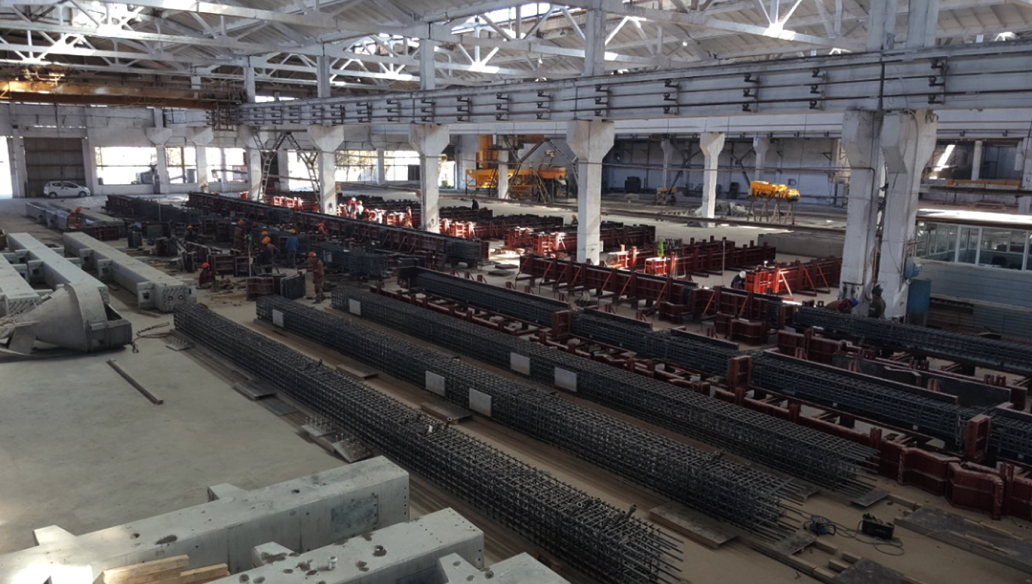
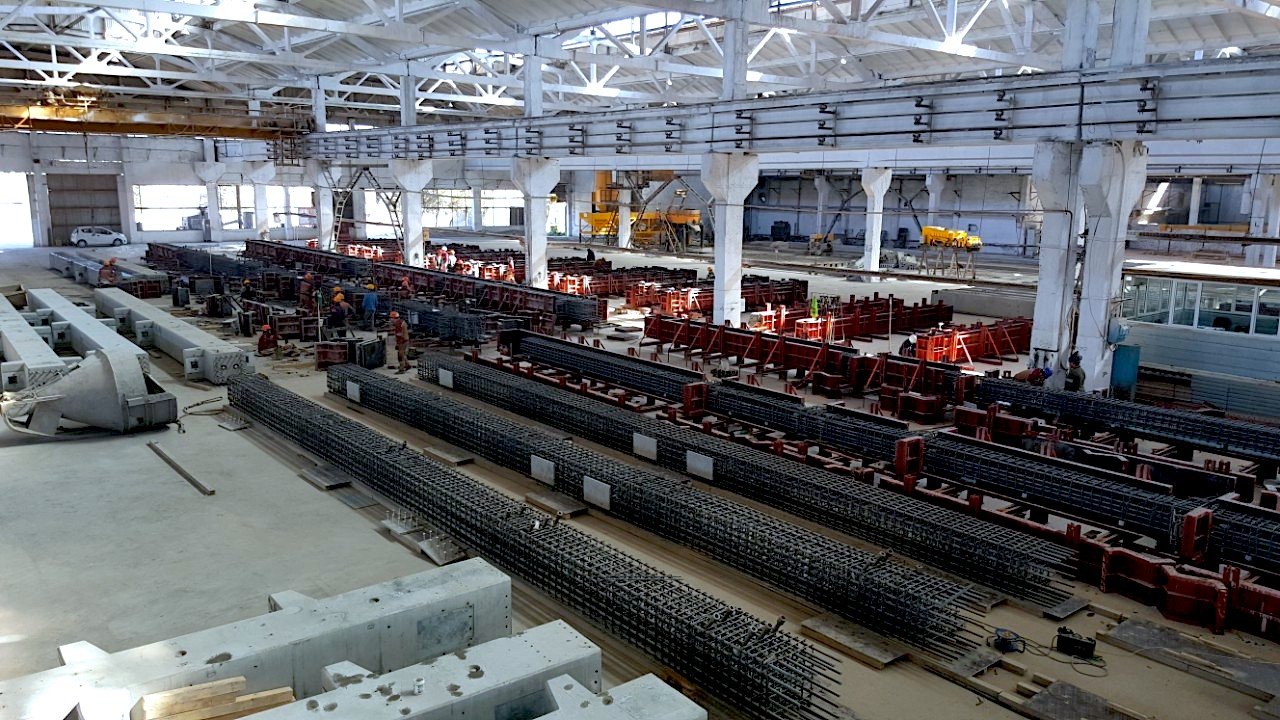
euro 포트폴리오 이미지 교체 작업중

diff --git a/project/euro/page/portfolio.html b/project/euro/page/portfolio.html
@@ -142,7 +142,10 @@
         <div class="portfolioItem is_switchTabTarget" data-switch="portfolio" data-switchkey="inner">
             <div class="portfolioItemImgList swiper-container">
                 <a class="swiper-wrapper" href="portfolioDetail_1.html">
-                    <div class="portfolioItemImg swiper-slide" style="background-image: url(../img/portfolio1_1.jpg)"></div>
+                    <div class="portfolioItemImg swiper-slide" style="background-image: url(../img/portfolio1_1.png)"></div>
+                    <div class="portfolioItemImg swiper-slide" style="background-image: url(../img/portfolio1_2.png)"></div>
+                    <div class="portfolioItemImg swiper-slide" style="background-image: url(../img/portfolio1_3.png)"></div>
+                    <div class="portfolioItemImg swiper-slide" style="background-image: url(../img/portfolio1_4.jpg)"></div>
                 </a>
                 <div class="swiper-button-prev"></div>
                 <div class="swiper-button-next"></div>
@@ -167,6 +170,12 @@
                     <div class="portfolioItemImg swiper-slide" style="background-image: url(../img/portfolio2_10.jpg)"></div>
                     <div class="portfolioItemImg swiper-slide" style="background-image: url(../img/portfolio2_11.jpg)"></div>
                     <div class="portfolioItemImg swiper-slide" style="background-image: url(../img/portfolio2_12.jpg)"></div>
+                    <div class="portfolioItemImg swiper-slide" style="background-image: url(../img/portfolio2_13.jpg)"></div>
+                    <div class="portfolioItemImg swiper-slide" style="background-image: url(../img/portfolio2_14.jpg)"></div>
+                    <div class="portfolioItemImg swiper-slide" style="background-image: url(../img/portfolio2_15.jpg)"></div>
+                    <div class="portfolioItemImg swiper-slide" style="background-image: url(../img/portfolio2_16.jpg)"></div>
+                    <div class="portfolioItemImg swiper-slide" style="background-image: url(../img/portfolio2_17.jpg)"></div>
+                    <div class="portfolioItemImg swiper-slide" style="background-image: url(../img/portfolio2_18.jpg)"></div>
                 </a>
                 <div class="swiper-button-prev"></div>
                 <div class="swiper-button-next"></div>
@@ -180,10 +189,21 @@
             <div class="portfolioItemImgList swiper-container">
                 <a class="swiper-wrapper" href="portfolioDetail_3.html">
                     <div class="portfolioItemImg swiper-slide" style="background-image: url(../img/portfolio3_1.jpg)"></div>
-                    <div class="portfolioItemImg swiper-slide" style="background-image: url(../img/portfolio3_2.jpg)"></div>
+                    <div class="portfolioItemImg swiper-slide" style="background-image: url(../img/portfolio3_2.png)"></div>
                     <div class="portfolioItemImg swiper-slide" style="background-image: url(../img/portfolio3_3.jpg)"></div>
                     <div class="portfolioItemImg swiper-slide" style="background-image: url(../img/portfolio3_4.jpg)"></div>
                     <div class="portfolioItemImg swiper-slide" style="background-image: url(../img/portfolio3_5.jpg)"></div>
+                    <div class="portfolioItemImg swiper-slide" style="background-image: url(../img/portfolio3_6.jpg)"></div>
+                    <div class="portfolioItemImg swiper-slide" style="background-image: url(../img/portfolio3_7.jpg)"></div>
+                    <div class="portfolioItemImg swiper-slide" style="background-image: url(../img/portfolio3_8.jpg)"></div>
+                    <div class="portfolioItemImg swiper-slide" style="background-image: url(../img/portfolio3_9.jpg)"></div>
+                    <div class="portfolioItemImg swiper-slide" style="background-image: url(../img/portfolio3_11.jpg)"></div>
+                    <div class="portfolioItemImg swiper-slide" style="background-image: url(../img/portfolio3_12.jpg)"></div>
+                    <div class="portfolioItemImg swiper-slide" style="background-image: url(../img/portfolio3_13.jpg)"></div>
+                    <div class="portfolioItemImg swiper-slide" style="background-image: url(../img/portfolio3_14.jpg)"></div>
+                    <div class="portfolioItemImg swiper-slide" style="background-image: url(../img/portfolio3_15.jpg)"></div>
+                    <div class="portfolioItemImg swiper-slide" style="background-image: url(../img/portfolio3_16.jpg)"></div>
+                    <div class="portfolioItemImg swiper-slide" style="background-image: url(../img/portfolio3_17.jpg)"></div>
                 </a>
                 <div class="swiper-button-prev"></div>
                 <div class="swiper-button-next"></div>
@@ -201,13 +221,20 @@
                     <div class="portfolioItemImg swiper-slide" style="background-image: url(../img/portfolio4_2.jpg)"></div>
                     <div class="portfolioItemImg swiper-slide" style="background-image: url(../img/portfolio4_3.jpg)"></div>
                     <div class="portfolioItemImg swiper-slide" style="background-image: url(../img/portfolio4_4.jpg)"></div>
-                    <div class="portfolioItemImg swiper-slide" style="background-image: url(../img/portfolio4_5.jpg)"></div>
-                    <div class="portfolioItemImg swiper-slide" style="background-image: url(../img/portfolio4_6.jpg)"></div>
+                    <div class="portfolioItemImg swiper-slide" style="background-image: url(../img/portfolio4_5.png)"></div>
+                    <div class="portfolioItemImg swiper-slide" style="background-image: url(../img/portfolio4_6.png)"></div>
                     <div class="portfolioItemImg swiper-slide" style="background-image: url(../img/portfolio4_7.jpg)"></div>
                     <div class="portfolioItemImg swiper-slide" style="background-image: url(../img/portfolio4_8.jpg)"></div>
                     <div class="portfolioItemImg swiper-slide" style="background-image: url(../img/portfolio4_9.jpg)"></div>
-                    <div class="portfolioItemImg swiper-slide" style="background-image: url(../img/portfolio4_10.jpg)"></div>
+                    <div class="portfolioItemImg swiper-slide" style="background-image: url(../img/portfolio4_10.png)"></div>
                     <div class="portfolioItemImg swiper-slide" style="background-image: url(../img/portfolio4_11.jpg)"></div>
+                    <div class="portfolioItemImg swiper-slide" style="background-image: url(../img/portfolio4_12.png)"></div>
+                    <div class="portfolioItemImg swiper-slide" style="background-image: url(../img/portfolio4_13.png)"></div>
+                    <div class="portfolioItemImg swiper-slide" style="background-image: url(../img/portfolio4_14.jpg)"></div>
+                    <div class="portfolioItemImg swiper-slide" style="background-image: url(../img/portfolio4_15.png)"></div>
+                    <div class="portfolioItemImg swiper-slide" style="background-image: url(../img/portfolio4_16.png)"></div>
+                    <div class="portfolioItemImg swiper-slide" style="background-image: url(../img/portfolio4_17.png)"></div>
+                    <div class="portfolioItemImg swiper-slide" style="background-image: url(../img/portfolio4_18.jpg)"></div>
                 </a>
                 <div class="swiper-button-prev"></div>
                 <div class="swiper-button-next"></div>

diff --git a/project/euro/page/portfolioDetail_4.html b/project/euro/page/portfolioDetail_4.html
@@ -147,13 +147,20 @@
             <button class="portfolioSubItem swiper-slide" type="button" style="background-image: url(../img/portfolio4_2.jpg)"></button>
             <button class="portfolioSubItem swiper-slide" type="button" style="background-image: url(../img/portfolio4_3.jpg)"></button>
             <button class="portfolioSubItem swiper-slide" type="button" style="background-image: url(../img/portfolio4_4.jpg)"></button>
-            <button class="portfolioSubItem swiper-slide" type="button" style="background-image: url(../img/portfolio4_5.jpg)"></button>
-            <button class="portfolioSubItem swiper-slide" type="button" style="background-image: url(../img/portfolio4_6.jpg)"></button>
+            <button class="portfolioSubItem swiper-slide" type="button" style="background-image: url(../img/portfolio4_5.png)"></button>
+            <button class="portfolioSubItem swiper-slide" type="button" style="background-image: url(../img/portfolio4_6.png)"></button>
             <button class="portfolioSubItem swiper-slide" type="button" style="background-image: url(../img/portfolio4_7.jpg)"></button>
             <button class="portfolioSubItem swiper-slide" type="button" style="background-image: url(../img/portfolio4_8.jpg)"></button>
             <button class="portfolioSubItem swiper-slide" type="button" style="background-image: url(../img/portfolio4_9.jpg)"></button>
-            <button class="portfolioSubItem swiper-slide" type="button" style="background-image: url(../img/portfolio4_10.jpg)"></button>
+            <button class="portfolioSubItem swiper-slide" type="button" style="background-image: url(../img/portfolio4_10.png)"></button>
             <button class="portfolioSubItem swiper-slide" type="button" style="background-image: url(../img/portfolio4_11.jpg)"></button>
+            <button class="portfolioSubItem swiper-slide" type="button" style="background-image: url(../img/portfolio4_12.png)"></button>
+            <button class="portfolioSubItem swiper-slide" type="button" style="background-image: url(../img/portfolio4_13.png)"></button>
+            <button class="portfolioSubItem swiper-slide" type="button" style="background-image: url(../img/portfolio4_14.jpg)"></button>
+            <button class="portfolioSubItem swiper-slide" type="button" style="background-image: url(../img/portfolio4_15.png)"></button>
+            <button class="portfolioSubItem swiper-slide" type="button" style="background-image: url(../img/portfolio4_16.png)"></button>
+            <button class="portfolioSubItem swiper-slide" type="button" style="background-image: url(../img/portfolio4_17.png)"></button>
+            <button class="portfolioSubItem swiper-slide" type="button" style="background-image: url(../img/portfolio4_18.jpg)"></button>
         </div>
         <div class="swiper-button-prev"></div>
         <div class="swiper-button-next"></div>

diff --git a/project/euro/page/portfolioDetail_3.html b/project/euro/page/portfolioDetail_3.html
@@ -144,10 +144,21 @@
     <div class="portfolioSubListWrap swiper-container">
         <div class="portfolioSubList swiper-wrapper">
             <button class="portfolioSubItem swiper-slide is_active" type="button" style="background-image: url(../img/portfolio3_1.jpg)"></button>
-            <button class="portfolioSubItem swiper-slide" type="button" style="background-image: url(../img/portfolio3_2.jpg)"></button>
+            <button class="portfolioSubItem swiper-slide" type="button" style="background-image: url(../img/portfolio3_2.png)"></button>
             <button class="portfolioSubItem swiper-slide" type="button" style="background-image: url(../img/portfolio3_3.jpg)"></button>
             <button class="portfolioSubItem swiper-slide" type="button" style="background-image: url(../img/portfolio3_4.jpg)"></button>
             <button class="portfolioSubItem swiper-slide" type="button" style="background-image: url(../img/portfolio3_5.jpg)"></button>
+            <button class="portfolioSubItem swiper-slide" type="button" style="background-image: url(../img/portfolio3_6.jpg)"></button>
+            <button class="portfolioSubItem swiper-slide" type="button" style="background-image: url(../img/portfolio3_7.jpg)"></button>
+            <button class="portfolioSubItem swiper-slide" type="button" style="background-image: url(../img/portfolio3_8.jpg)"></button>
+            <button class="portfolioSubItem swiper-slide" type="button" style="background-image: url(../img/portfolio3_9.jpg)"></button>
+            <button class="portfolioSubItem swiper-slide" type="button" style="background-image: url(../img/portfolio3_11.jpg)"></button>
+            <button class="portfolioSubItem swiper-slide" type="button" style="background-image: url(../img/portfolio3_12.jpg)"></button>
+            <button class="portfolioSubItem swiper-slide" type="button" style="background-image: url(../img/portfolio3_13.jpg)"></button>
+            <button class="portfolioSubItem swiper-slide" type="button" style="background-image: url(../img/portfolio3_14.jpg)"></button>
+            <button class="portfolioSubItem swiper-slide" type="button" style="background-image: url(../img/portfolio3_15.jpg)"></button>
+            <button class="portfolioSubItem swiper-slide" type="button" style="background-image: url(../img/portfolio3_16.jpg)"></button>
+            <button class="portfolioSubItem swiper-slide" type="button" style="background-image: url(../img/portfolio3_17.jpg)"></button>
         </div>
         <div class="swiper-button-prev"></div>
         <div class="swiper-button-next"></div>

diff --git a/project/euro/page/portfolioDetail_1.html b/project/euro/page/portfolioDetail_1.html
@@ -134,7 +134,7 @@
 <header class="euroHeader is_onFix"></header>
 <div class="portfolioSub">
     <div class="portfolioSubView">
-        <div class="portfolioSubViewImg" style="background-image: url(../img/portfolio1_1.jpg)"></div>
+        <div class="portfolioSubViewImg" style="background-image: url(../img/portfolio1_1.png)"></div>
     </div>
     <div class="portfolioSubBox">
         <div class="portfolioSubBoxEyebrow is_hide_m">국내 프로젝트</div>
@@ -143,7 +143,10 @@
     </div>
     <div class="portfolioSubListWrap swiper-container">
         <div class="portfolioSubList swiper-wrapper">
-            <button class="portfolioSubItem swiper-slide is_active" type="button" style="background-image: url(../img/portfolio1_1.jpg)"></button>
+            <button class="portfolioSubItem swiper-slide is_active" type="button" style="background-image: url(../img/portfolio1_1.png)"></button>
+            <button class="portfolioSubItem swiper-slide" type="button" style="background-image: url(../img/portfolio1_2.png)"></button>
+            <button class="portfolioSubItem swiper-slide" type="button" style="background-image: url(../img/portfolio1_3.png)"></button>
+            <button class="portfolioSubItem swiper-slide" type="button" style="background-image: url(../img/portfolio1_4.jpg)"></button>
         </div>
         <div class="swiper-button-prev"></div>
         <div class="swiper-button-next"></div>

diff --git a/project/euro/page/portfolioDetail_2.html b/project/euro/page/portfolioDetail_2.html
@@ -155,6 +155,12 @@
             <button class="portfolioSubItem swiper-slide" type="button" style="background-image: url(../img/portfolio2_10.jpg)"></button>
             <button class="portfolioSubItem swiper-slide" type="button" style="background-image: url(../img/portfolio2_11.jpg)"></button>
             <button class="portfolioSubItem swiper-slide" type="button" style="background-image: url(../img/portfolio2_12.jpg)"></button>
+            <button class="portfolioSubItem swiper-slide" type="button" style="background-image: url(../img/portfolio2_13.jpg)"></button>
+            <button class="portfolioSubItem swiper-slide" type="button" style="background-image: url(../img/portfolio2_14.jpg)"></button>
+            <button class="portfolioSubItem swiper-slide" type="button" style="background-image: url(../img/portfolio2_15.jpg)"></button>
+            <button class="portfolioSubItem swiper-slide" type="button" style="background-image: url(../img/portfolio2_16.jpg)"></button>
+            <button class="portfolioSubItem swiper-slide" type="button" style="background-image: url(../img/portfolio2_17.jpg)"></button>
+            <button class="portfolioSubItem swiper-slide" type="button" style="background-image: url(../img/portfolio2_18.jpg)"></button>
         </div>
         <div class="swiper-button-prev"></div>
         <div class="swiper-button-next"></div>
